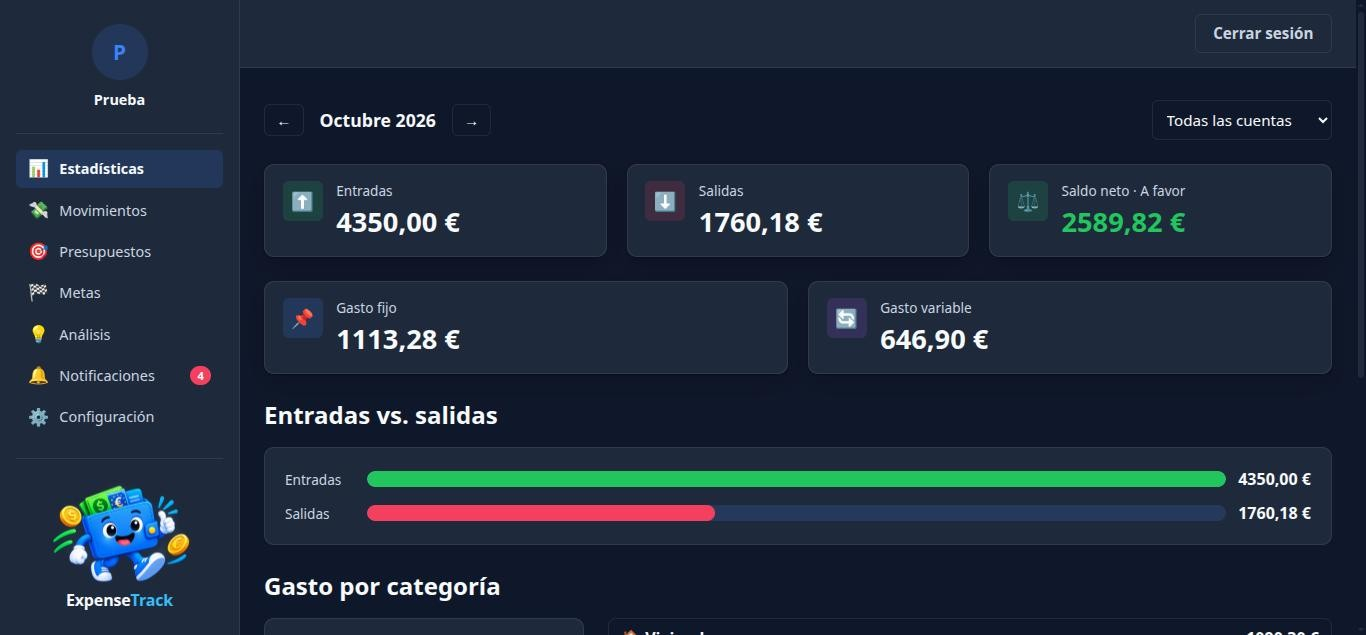
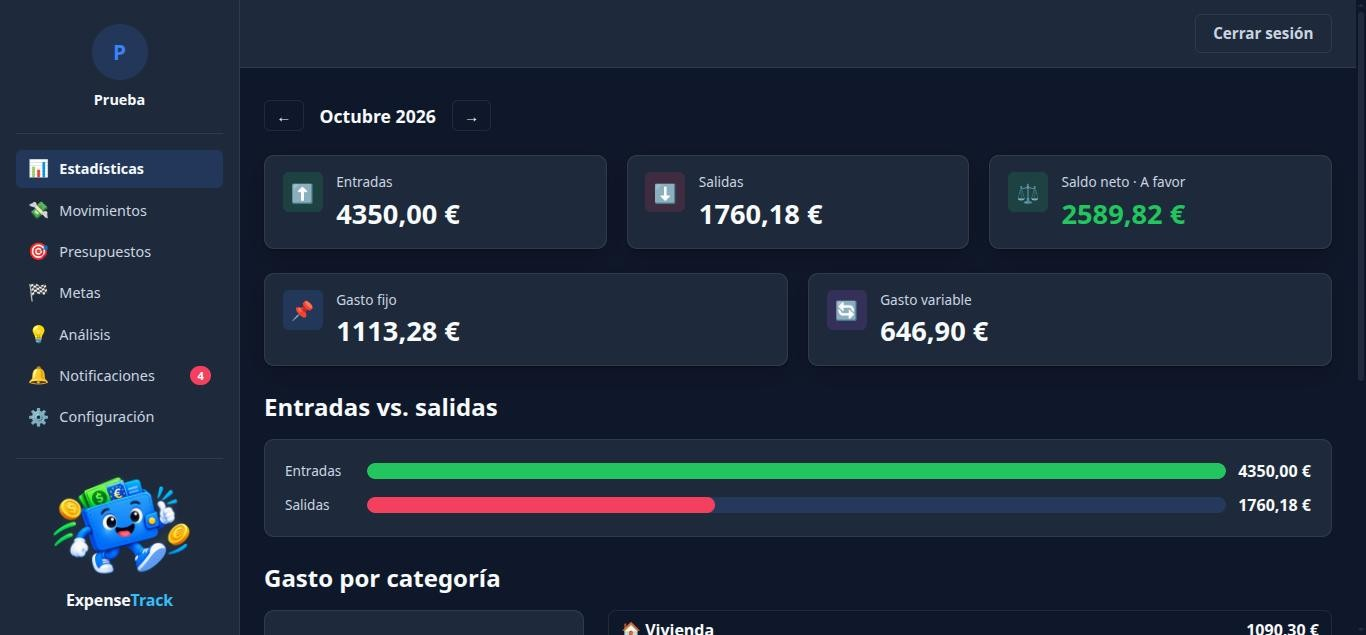
feat: no pedir la cuenta cuando el usuario solo tiene una
«Agregar movimiento» e «Importar estado de cuenta» solo muestran el campo
«Cuenta» si hay más de una cuenta; con una se usa esa automáticamente
(misma regla que ya seguía el selector del dashboard). 4 tests nuevos.

Usuario demo: sus 18 movimientos de «Cuenta Secundaria» pasan a «Cuenta
Principal» y la secundaria se elimina (ajuste de datos en local, cifras
del dashboard idénticas). Capturas del README sin el selector de cuentas.

Change OpenSpec single-account-forms (pendiente la revisión de la autora).

diff --git a/frontend/src/features/imports/ImportsPage.test.tsx b/frontend/src/features/imports/ImportsPage.test.tsx
@@ -82,8 +82,7 @@ describe("ImportsPage", () => {
 
     renderPage();
 
-    await waitFor(() => expect(screen.getByText("Cuenta Principal")).toBeInTheDocument());
-    await user.selectOptions(screen.getByLabelText("Cuenta"), "5");
+    await waitFor(() => expect(transactionsApi.listAccounts).toHaveBeenCalled());
 
     const file = new File(["a,b\n1,2"], "extracto.csv", { type: "text/csv" });
     await user.upload(screen.getByLabelText("Archivo CSV"), file);
@@ -131,8 +130,7 @@ describe("ImportsPage", () => {
     });
 
     renderPage();
-    await waitFor(() => expect(screen.getByText("Cuenta Principal")).toBeInTheDocument());
-    await user.selectOptions(screen.getByLabelText("Cuenta"), "5");
+    await waitFor(() => expect(transactionsApi.listAccounts).toHaveBeenCalled());
     const file = new File(["a,b\n1,2"], "extracto.csv", { type: "text/csv" });
     await user.upload(screen.getByLabelText("Archivo CSV"), file);
     await user.click(screen.getByRole("button", { name: "Previsualizar" }));
@@ -142,5 +140,48 @@ describe("ImportsPage", () => {
 
     expect(importsApi.commitImport).toHaveBeenCalledWith("test-token", 42, "append_new", []);
     expect(await screen.findByText(/1 insertados/)).toBeInTheDocument();
+  });
+
+  it("con una sola cuenta no pide elegirla y se puede subir directamente", async () => {
+    const user = userEvent.setup();
+    vi.mocked(importsApi.uploadStatement).mockResolvedValue({
+      id: 7,
+      account_id: 5,
+      filename: "extracto.csv",
+      status: "previewed",
+      range_start: "2026-03-01",
+      range_end: "2026-03-01",
+      created_at: "2026-03-04T00:00:00Z",
+      new_count: 0,
+      exact_duplicate_count: 0,
+      probable_duplicate_count: 0,
+      rows: [],
+    });
+
+    renderPage();
+    await waitFor(() => expect(transactionsApi.listAccounts).toHaveBeenCalled());
+
+    expect(screen.queryByLabelText("Cuenta")).not.toBeInTheDocument();
+    const file = new File(["a,b\n1,2"], "extracto.csv", { type: "text/csv" });
+    await user.upload(screen.getByLabelText("Archivo CSV"), file);
+    const previewButton = screen.getByRole("button", { name: "Previsualizar" });
+    await waitFor(() => expect(previewButton).toBeEnabled());
+    await user.click(previewButton);
+
+    await waitFor(() =>
+      expect(importsApi.uploadStatement).toHaveBeenCalledWith("test-token", 5, file),
+    );
+  });
+
+  it("con varias cuentas pide elegir una", async () => {
+    vi.mocked(transactionsApi.listAccounts).mockResolvedValue([
+      ...accounts,
+      { ...accounts[0], id: 6, name: "Ahorros", is_primary: false },
+    ]);
+
+    renderPage();
+
+    expect(await screen.findByLabelText("Cuenta")).toBeInTheDocument();
+    expect(screen.getByRole("option", { name: "Selecciona una cuenta" })).toBeInTheDocument();
   });
 });

diff --git a/frontend/src/features/imports/ImportsPage.tsx b/frontend/src/features/imports/ImportsPage.tsx
@@ -1,5 +1,5 @@
 import { useMutation, useQuery, useQueryClient } from "@tanstack/react-query";
-import { useMemo, useState } from "react";
+import { useEffect, useMemo, useState } from "react";
 
 import { useAuth } from "../auth/useAuth";
 import { listAccounts } from "../transactions/api";
@@ -78,6 +78,16 @@ export function ImportsPage({ onCommitted }: ImportsPageProps = {}) {
   }
 
   const accounts = accountsQuery.data ?? [];
+  // Con una sola cuenta no se pregunta: se importa en esa. Solo con varias
+  // aparece el campo «Cuenta».
+  const askForAccount = accounts.length > 1;
+  const onlyAccountId = accounts.length === 1 ? accounts[0].id : null;
+
+  useEffect(() => {
+    if (onlyAccountId !== null && accountId === null) {
+      setAccountId(onlyAccountId);
+    }
+  }, [onlyAccountId, accountId]);
 
   return (
     <div className="imports-page">
@@ -86,19 +96,25 @@ export function ImportsPage({ onCommitted }: ImportsPageProps = {}) {
       </p>
 
       <div className="import-upload-form">
-        <label htmlFor="import-account">Cuenta</label>
-        <select
-          id="import-account"
-          value={accountId ?? ""}
-          onChange={(event) => setAccountId(event.target.value ? Number(event.target.value) : null)}
-        >
-          <option value="">Selecciona una cuenta</option>
-          {accounts.map((account) => (
-            <option key={account.id} value={account.id}>
-              {account.name}
-            </option>
-          ))}
-        </select>
+        {askForAccount && (
+          <>
+            <label htmlFor="import-account">Cuenta</label>
+            <select
+              id="import-account"
+              value={accountId ?? ""}
+              onChange={(event) =>
+                setAccountId(event.target.value ? Number(event.target.value) : null)
+              }
+            >
+              <option value="">Selecciona una cuenta</option>
+              {accounts.map((account) => (
+                <option key={account.id} value={account.id}>
+                  {account.name}
+                </option>
+              ))}
+            </select>
+          </>
+        )}
 
         <label htmlFor="import-file">Archivo CSV</label>
         <input

diff --git a/frontend/src/features/transactions/components/TransactionForm.tsx b/frontend/src/features/transactions/components/TransactionForm.tsx
@@ -101,18 +101,23 @@ export function TransactionForm({
   return (
     <form className="expense-form" onSubmit={handleSubmit}>
       <div className="expense-form-grid">
-        <label htmlFor="transaction-account">Cuenta</label>
-        <select
-          id="transaction-account"
-          value={accountId}
-          onChange={(event) => setAccountId(event.target.value)}
-        >
-          {accounts.map((account) => (
-            <option key={account.id} value={account.id}>
-              {account.name}
-            </option>
-          ))}
-        </select>
+        {/* Con una sola cuenta no se pregunta: se usa esa (la elige el efecto de arriba). */}
+        {accounts.length > 1 && (
+          <>
+            <label htmlFor="transaction-account">Cuenta</label>
+            <select
+              id="transaction-account"
+              value={accountId}
+              onChange={(event) => setAccountId(event.target.value)}
+            >
+              {accounts.map((account) => (
+                <option key={account.id} value={account.id}>
+                  {account.name}
+                </option>
+              ))}
+            </select>
+          </>
+        )}
 
         <span id="transaction-direction-label">Tipo</span>
         <div role="radiogroup" aria-labelledby="transaction-direction-label">

diff --git a/frontend/src/features/transactions/components/TransactionForm.test.tsx b/frontend/src/features/transactions/components/TransactionForm.test.tsx
@@ -156,4 +156,34 @@ describe("TransactionForm", () => {
       expect(onSubmit).toHaveBeenCalledWith(expect.objectContaining({ category_id: 99 })),
     );
   });
+
+  it("con una sola cuenta no muestra el campo Cuenta", () => {
+    render(
+      <TransactionForm
+        accounts={accounts}
+        categories={categories}
+        defaultDate="2026-08-13"
+        onSubmit={vi.fn()}
+        onCreateCategory={vi.fn()}
+        isSubmitting={false}
+      />,
+    );
+
+    expect(screen.queryByLabelText("Cuenta")).not.toBeInTheDocument();
+  });
+
+  it("con varias cuentas muestra el campo Cuenta con la primera elegida", () => {
+    render(
+      <TransactionForm
+        accounts={[...accounts, { ...accounts[0], id: 2, name: "Ahorros", is_primary: false }]}
+        categories={categories}
+        defaultDate="2026-08-13"
+        onSubmit={vi.fn()}
+        onCreateCategory={vi.fn()}
+        isSubmitting={false}
+      />,
+    );
+
+    expect(screen.getByLabelText("Cuenta")).toHaveValue("1");
+  });
 });

diff --git a/openspec/changes/single-account-forms/tasks.md b/openspec/changes/single-account-forms/tasks.md
@@ -1,18 +1,18 @@
 ## 1. Formularios
 
-- [ ] 1.1 `TransactionForm`: pintar «Cuenta» solo con más de una cuenta
-- [ ] 1.2 `ImportsPage`: con una sola cuenta, elegirla automáticamente y no pintar «Cuenta»; con varias, sin cambios
+- [x] 1.1 `TransactionForm`: pintar «Cuenta» solo con más de una cuenta
+- [x] 1.2 `ImportsPage`: con una sola cuenta, elegirla automáticamente y no pintar «Cuenta»; con varias, sin cambios
 
 ## 2. Tests
 
-- [ ] 2.1 `TransactionForm`: sin campo «Cuenta» con una cuenta y el movimiento se guarda en ella; con dos, el campo aparece
-- [ ] 2.2 `ImportsPage`: con una cuenta, sin campo y se puede subir sin elegir; con dos, aparece «Selecciona una cuenta»
+- [x] 2.1 `TransactionForm`: sin campo «Cuenta» con una cuenta y el movimiento se guarda en ella; con dos, el campo aparece
+- [x] 2.2 `ImportsPage`: con una cuenta, sin campo y se puede subir sin elegir; con dos, aparece «Selecciona una cuenta»
 
 ## 3. Datos del demo
 
-- [ ] 3.1 Copia de seguridad; traspasar los movimientos de «Cuenta Secundaria» a «Cuenta Principal» y eliminar la secundaria (usuario demo); comprobar que las cifras del dashboard no cambian
+- [x] 3.1 Copia de seguridad; traspasar los movimientos de «Cuenta Secundaria» a «Cuenta Principal» y eliminar la secundaria (usuario demo); comprobar que las cifras del dashboard no cambian
 
 ## 4. Verificación
 
-- [ ] 4.1 `tsc`, `eslint` y `vitest` en verde; Prettier sin avisos en los archivos tocados
+- [x] 4.1 `tsc`, `eslint` y `vitest` en verde; Prettier sin avisos en los archivos tocados
 - [ ] 4.2 Revisión en el navegador con el usuario demo: dashboard sin selector, formularios sin «Cuenta»; revisión de la autora
